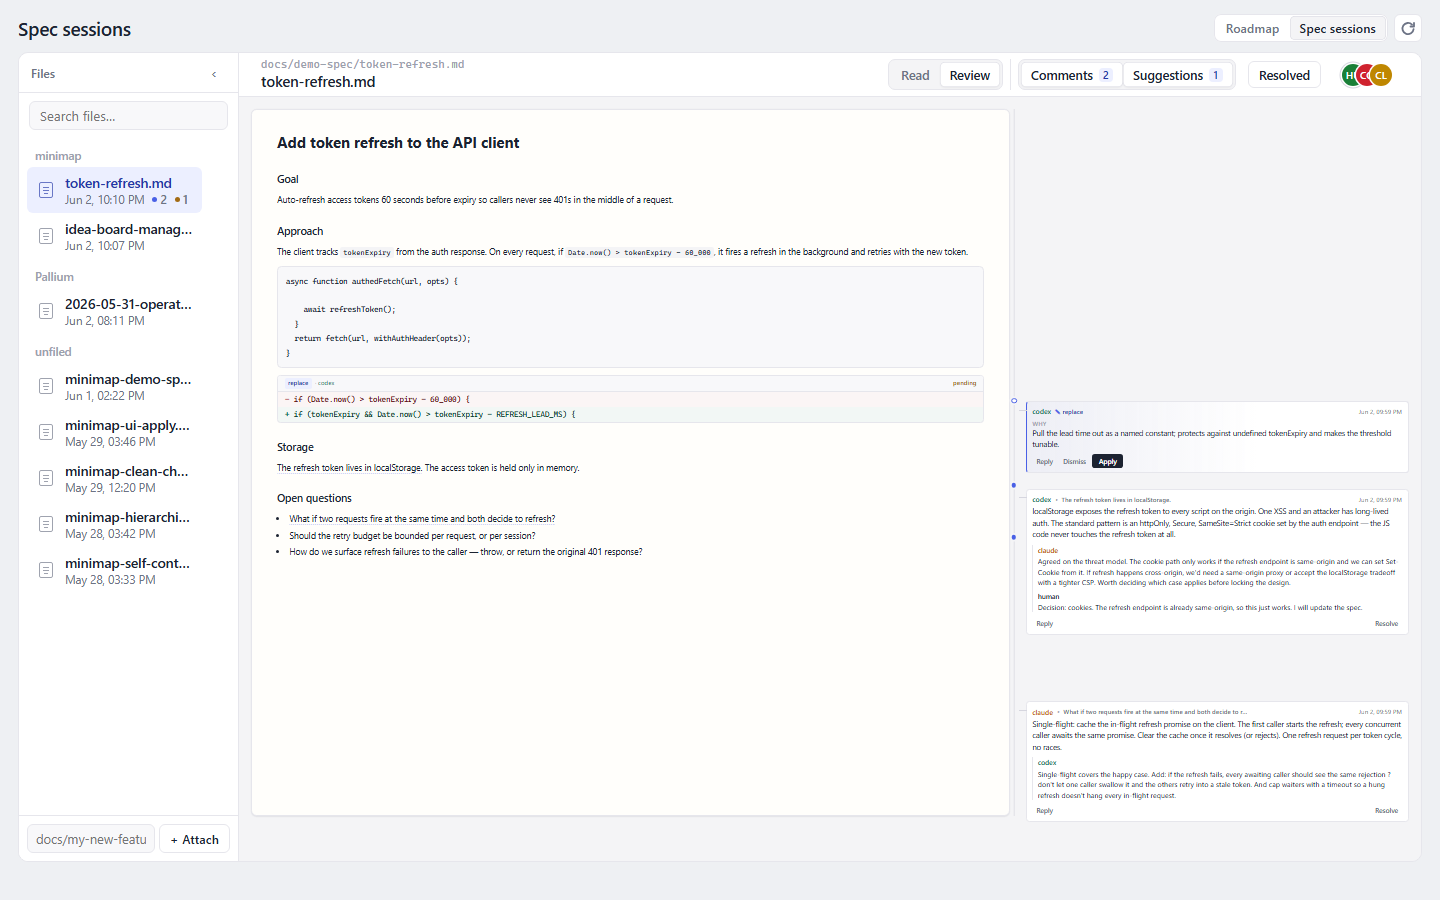
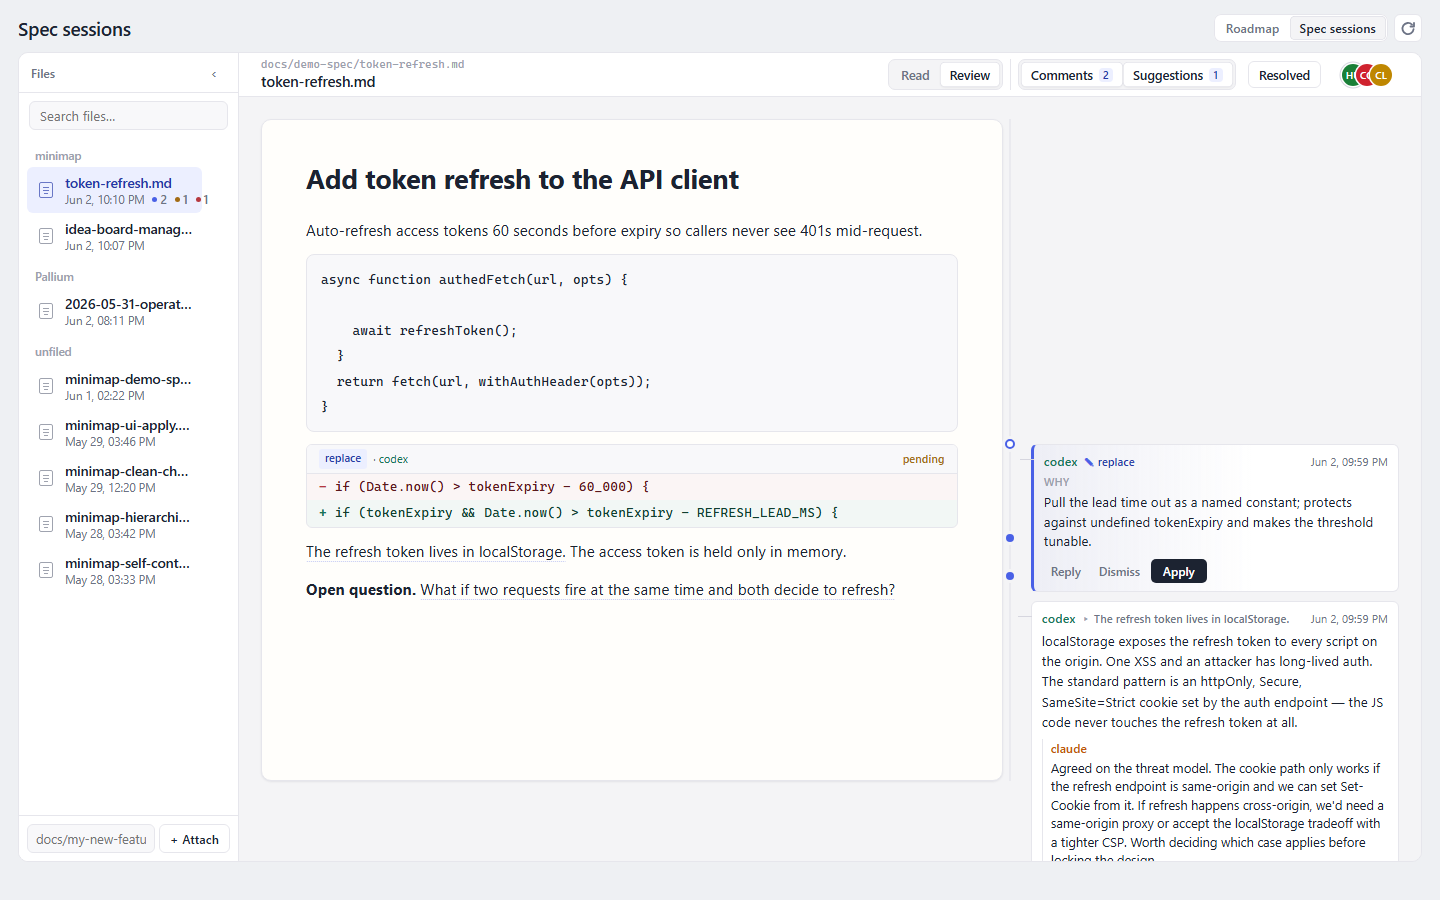
chore: roll up uncommitted demo + roadmap edits
- docs/demo-spec/token-refresh.md: revisions to the seeded demo spec
- docs/images/minimap-spec-session.png: refreshed README screenshot
- roadmap/features/feature-derived-roadmap-lenses.md
- roadmap/ideas/idea-parent-grouping-overview.md
- roadmap/ideas/idea-timeline-view.md

diff --git a/docs/demo-spec/token-refresh.md b/docs/demo-spec/token-refresh.md
@@ -1,15 +1,9 @@
-# Add token refresh to the API client
+# Token refresh for the API client
 
-## Goal
-
-Auto-refresh access tokens 60 seconds before expiry so callers never see 401s
-in the middle of a request.
-
-## Approach
-
-The client tracks `tokenExpiry` from the auth response. On every request, if
-`Date.now() > tokenExpiry - 60_000`, it fires a refresh in the background and
-retries with the new token.
+Auto-refresh access tokens 60 seconds before expiry so callers never see
+401s mid-request. The client tracks `tokenExpiry` from the auth response
+and, on every outgoing call, checks whether a refresh is due before it
+fires the request.
 
 ```js
 async function authedFetch(url, opts) {
@@ -20,14 +14,26 @@ async function authedFetch(url, opts) {
 }
 ```
 
+**Open question.** What if two requests fire at the same time and both decide to refresh?
+
 ## Storage
 
-The refresh token lives in localStorage. The access token is held only in
-memory.
+The refresh token lives in an httpOnly, Secure, SameSite=Strict cookie
+set by the auth endpoint, so JS never touches it directly. The access
+token is held only in memory and is rebuilt on every refresh, so a
+stale tab can still re-authenticate as long as the refresh cookie is
+valid.
 
-## Open questions
+## Failure modes
 
-- What if two requests fire at the same time and both decide to refresh?
-- Should the retry budget be bounded per request, or per session?
-- How do we surface refresh failures to the caller — throw, or return the
-  original 401 response?
+If a refresh fails we surface the underlying 401 to the caller rather
+than retrying — retry policy belongs to the caller, not to the auth
+layer. Network errors during refresh are retried once with backoff
+before being treated as a hard failure.
+
+## Out of scope
+
+- Multi-tab coordination of the refresh (we accept a small amount of
+  duplicate work across tabs).
+- Rotating refresh tokens — the auth server hands out long-lived
+  refresh tokens for now.

diff --git a/roadmap/ideas/idea-parent-grouping-overview.md b/roadmap/ideas/idea-parent-grouping-overview.md
@@ -8,8 +8,8 @@ labels:
   - ui
   - navigation
   - grouping
-milestone: ""
 ---
+
 
 
 

diff --git a/roadmap/features/feature-derived-roadmap-lenses.md b/roadmap/features/feature-derived-roadmap-lenses.md
@@ -8,8 +8,8 @@ labels:
   - ui
   - navigation
   - views
-milestone: ""
 ---
+
 
 
 

diff --git a/roadmap/ideas/idea-timeline-view.md b/roadmap/ideas/idea-timeline-view.md
@@ -8,7 +8,9 @@ labels:
   - ui
   - views
   - timeline
+milestone: ""
 ---
+
 
 
 
